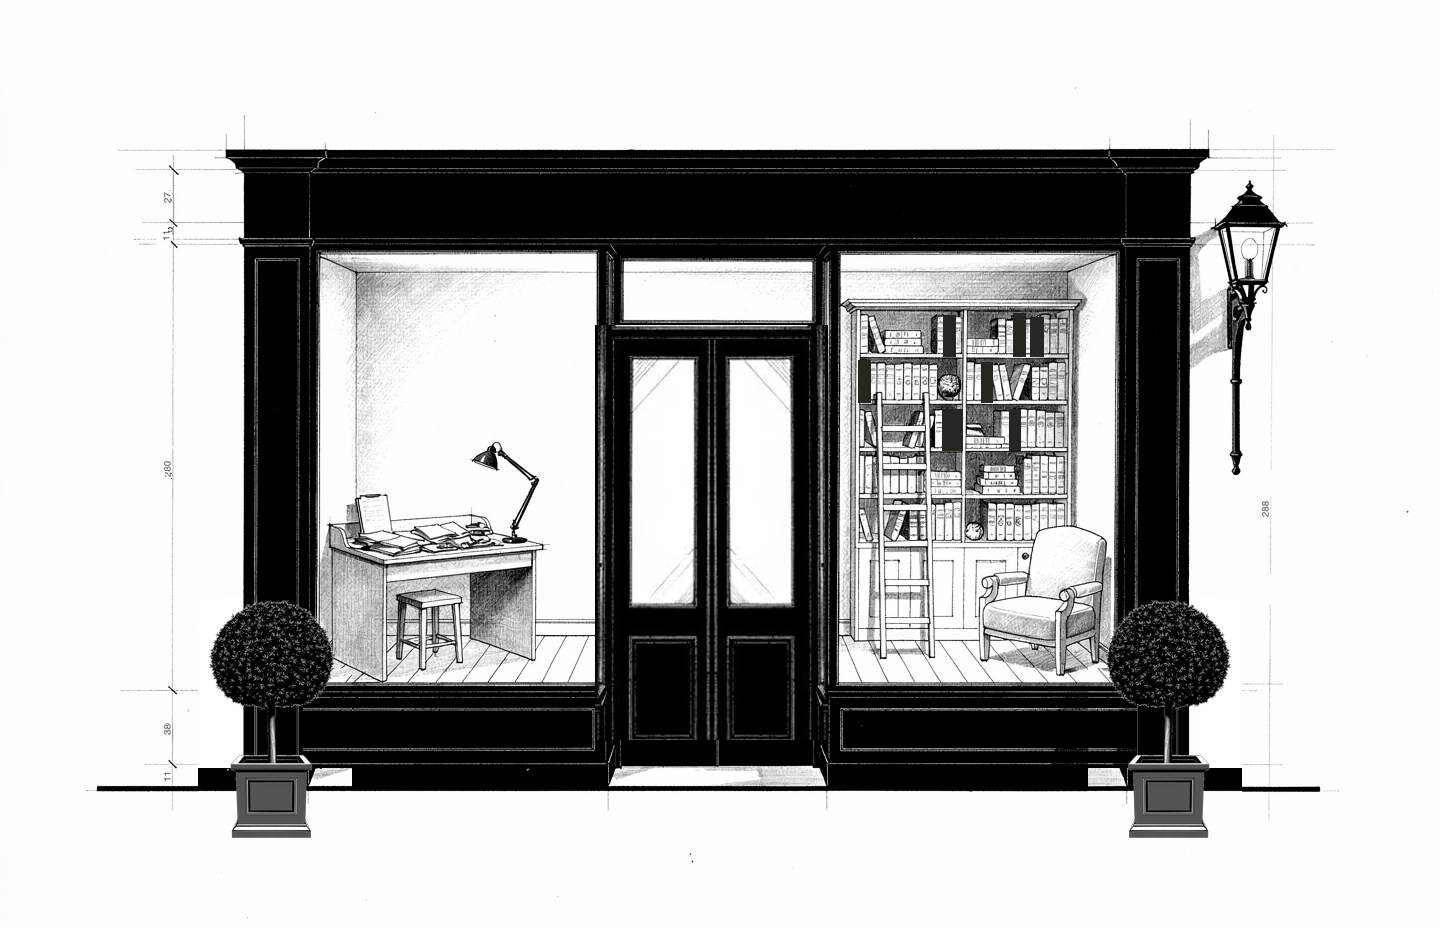
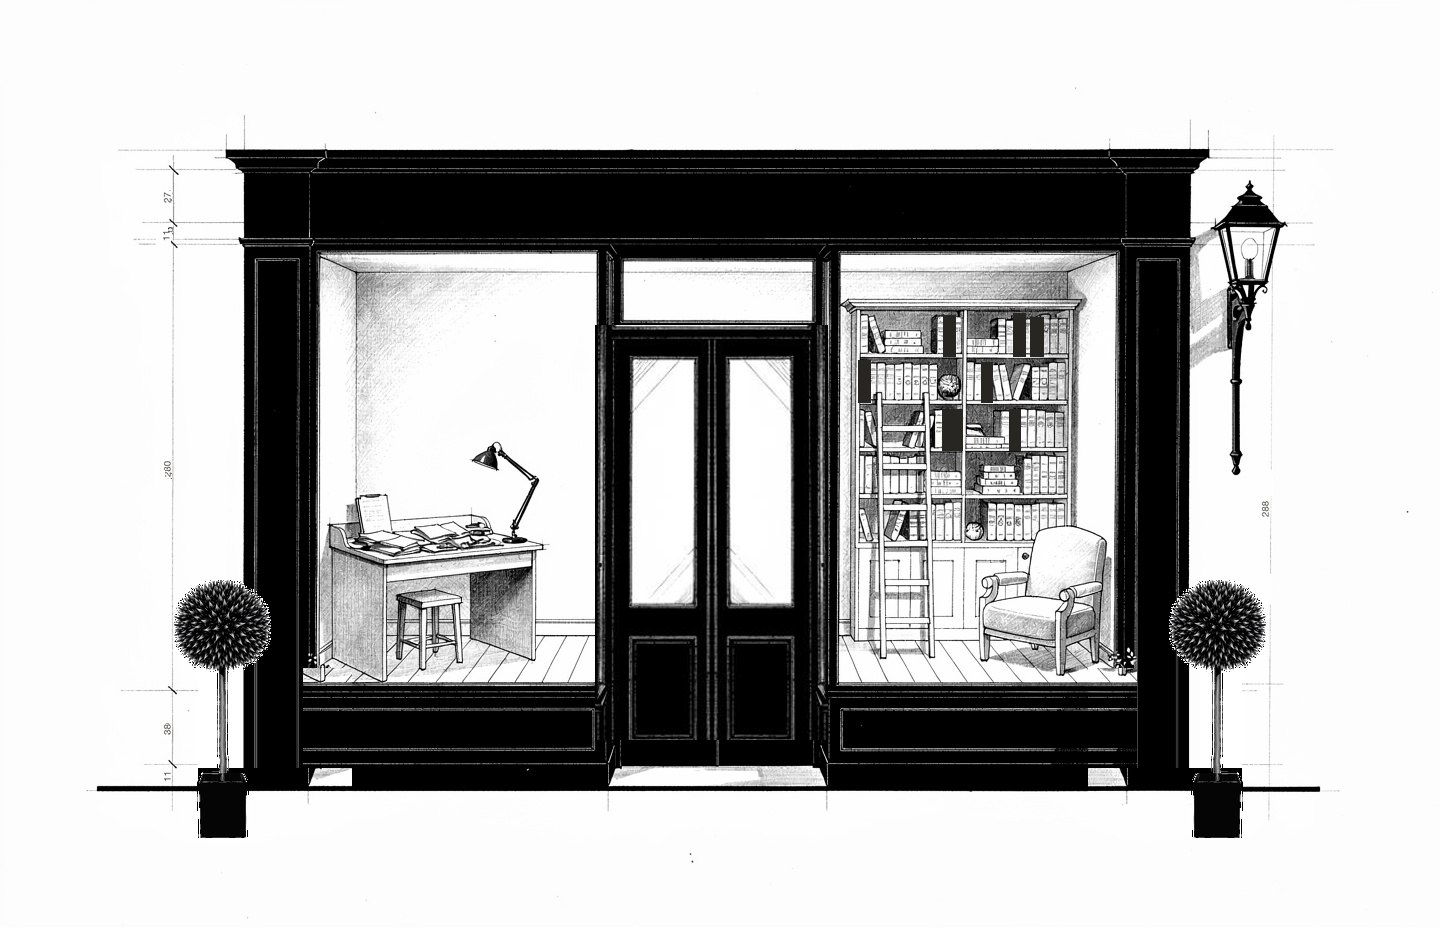
Topiary: spiky heads, black planters, taller and standing clear
Reworked to match the reference properly. The first pass was a fat smooth
sphere in a fussy grey Versailles planter; this is a small spiky starburst head
on a long slender trunk in a plain solid black box — taller overall, smaller
ball, as asked.

Also moved them outward onto the pavement instead of sitting on the black
pilaster. That was the real problem: a near-black topiary standing against a
near-black pilaster simply disappears. The original sprigs got away with it
because they were drawn as white leaves over the black; a single cutout can't
do that. Standing clear of the pilaster, the dark head and black box both read
against the white ground.

Planter blackened programmatically with a 150-luminance threshold so the body
goes solid while its light rim survives — without the rim the box merged into
the plinth.

Rebuilt from shop.png.bak-plants each time, so this is not stacked on the
previous edit. 40,181 pixels changed, all inside the two plant columns; zero
pixels differ elsewhere, so every overlay layer and hotspot is untouched.

Also removes the dotted rule above "Three disciplines. Multiple models. One
governed system." — .in-mark-b dropped from both dotted-selector lists and from
its own border-top, spacing unchanged. Every other dotted separator is intact.

Claude-Session: https://claude.ai/code/session_01GwRUxVaTSXXWgRTcs4sM6m

Changed region(s): [[0.125, 0.625, 0.25, 0.9062], [0.75, 0.625, 0.875, 0.9062]]

diff --git a/index.html b/index.html
@@ -485,7 +485,7 @@ body{background:var(--paper);color:var(--ink);font-family:var(--sans);overflow:h
 .in-crow-t{font-family:var(--mono);font-size:8.5px;letter-spacing:.13em;text-transform:uppercase;color:var(--ink)}
 .in-crow-d{font-size:12.5px;line-height:1.6;color:#57534b}
 .in-mark-b{display:grid;grid-template-columns:minmax(150px,240px) 1fr;gap:clamp(24px,4vw,64px);
-  margin-top:clamp(46px,7vh,86px);border-top:1px solid rgba(0,0,0,.13);padding-top:26px;align-items:start}
+  margin-top:clamp(46px,7vh,86px);padding-top:26px;align-items:start}
 .in-tri{width:100%;max-width:200px;height:auto;color:var(--ink)}
 .in-tri-l{font-family:var(--mono);font-size:8px;letter-spacing:.18em;fill:currentColor;opacity:.5}
 .in-mark-t .in-body{margin-top:14px;max-width:70ch}
@@ -514,7 +514,7 @@ body{background:var(--paper);color:var(--ink);font-family:var(--sans);overflow:h
 
 /* ---- separators inside the interior: dotted sub-rules, drafting style.
    The fixed chrome (.in-bar, .in-now) and the card/table containers stay solid. ---- */
-.in-rule,.in-mark-b,.in-reads,.in-footer,.in-subhead,.in-aside,
+.in-rule,.in-reads,.in-footer,.in-subhead,.in-aside,
 .in-idx-r,.in-read,.in-crow,.in-eff,.in-gov,.ex-h,.in-ul{
   border-top:1px solid transparent;
   background-image:var(--dot-soft);background-size:4px 1px;background-repeat:repeat-x;
@@ -524,7 +524,7 @@ body{background:var(--paper);color:var(--ink);font-family:var(--sans);overflow:h
   background-image:var(--dot-soft);background-size:4px 1px;background-repeat:repeat-x;
   background-origin:border-box;background-clip:border-box;background-position:left top}
 /* section-opening rules carry a touch more weight than the ones nested inside them */
-.in-rule,.in-mark-b,.in-reads,.in-footer{background-image:var(--dot)}
+.in-rule,.in-reads,.in-footer{background-image:var(--dot)}
 .ex.arrow .ex-h{
   border-top:1px solid transparent;
   background-image:var(--dot);background-size:4px 1px;background-repeat:repeat-x;
